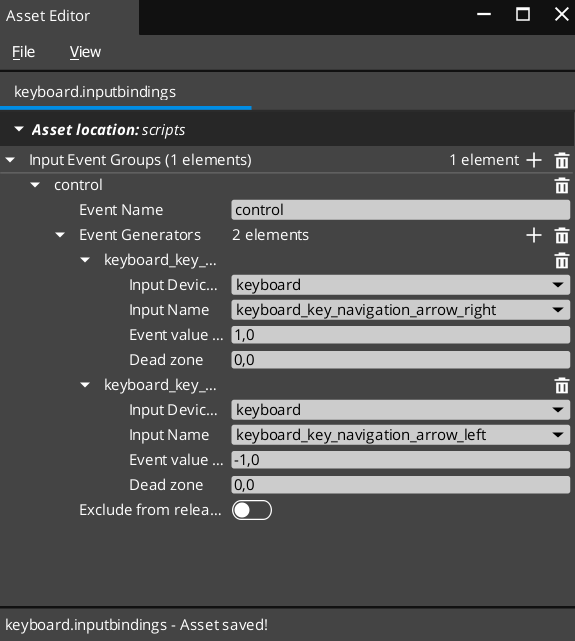
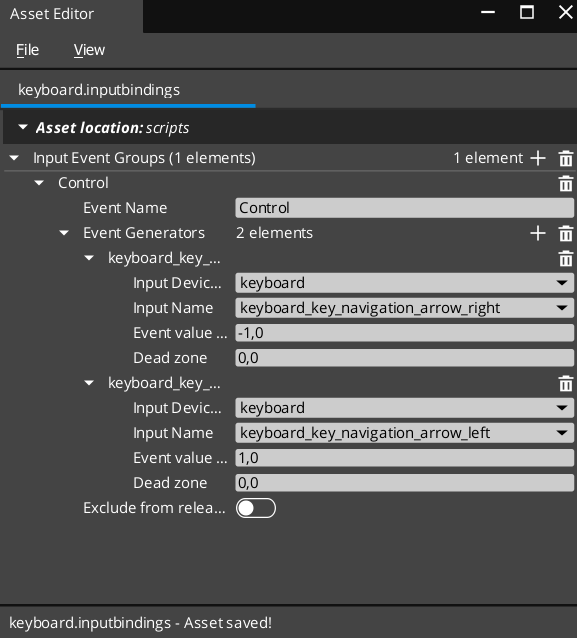
Added control to lua script

diff --git a/Doc/roboball_tutorial_5.md b/Doc/roboball_tutorial_5.md
@@ -30,13 +30,13 @@ Here we will show how to make keyboard ba
 1. Put this in the fields:
     * input Device: Keyboard
     * Input Name: keyboard_key_navigation_arrow_right
-    * Event Value: 1,0
+    * Event Value: -1,0
     * Dead zone: 0,0
 1. Add another class of the type `EventInputMap`
 1. Put this in the fields:
     * input Device: Keyboard
     * Input Name: keyboard_key_navigation_arrow_left
-    * Event Value: -1,0
+    * Event Value: 1,0
     * Dead zone: 0,0
 1. Save the input binding
 
@@ -80,4 +80,30 @@ Add the new script to the Lua Script component:
 
 ![add_control_script](images/add_control_script.png)
 
+Now add the following to properties:
 
+```lua
+		InputEventName = ""
+```
+
+And these two lines to OnActivate():
+
+```lua
+	local inputBusId = InputEventNotificationId(self.Properties.InputEventName)
+	self.InputNotificationBus = InputEventNotificationBus.Connect(self, inputBusId)
+```
+
+And the Bus disconnect in OnDisconnect():
+
+```lua
+	 self.InputNotificationBus:Disconnect();
+```
+
+Now add the function that will react when either of the 2 arrow buttons are being held:
+
+```lua
+function Control:OnPressed (value)
+ 	local ImpulseDirection = value * self.Properties.ImpulseSize
+	RigidBodyRequestBus.Event.ApplyLinearImpulse(self.entityId, Vector3(0, ImpulseDirection, 0));
+ end
+```
